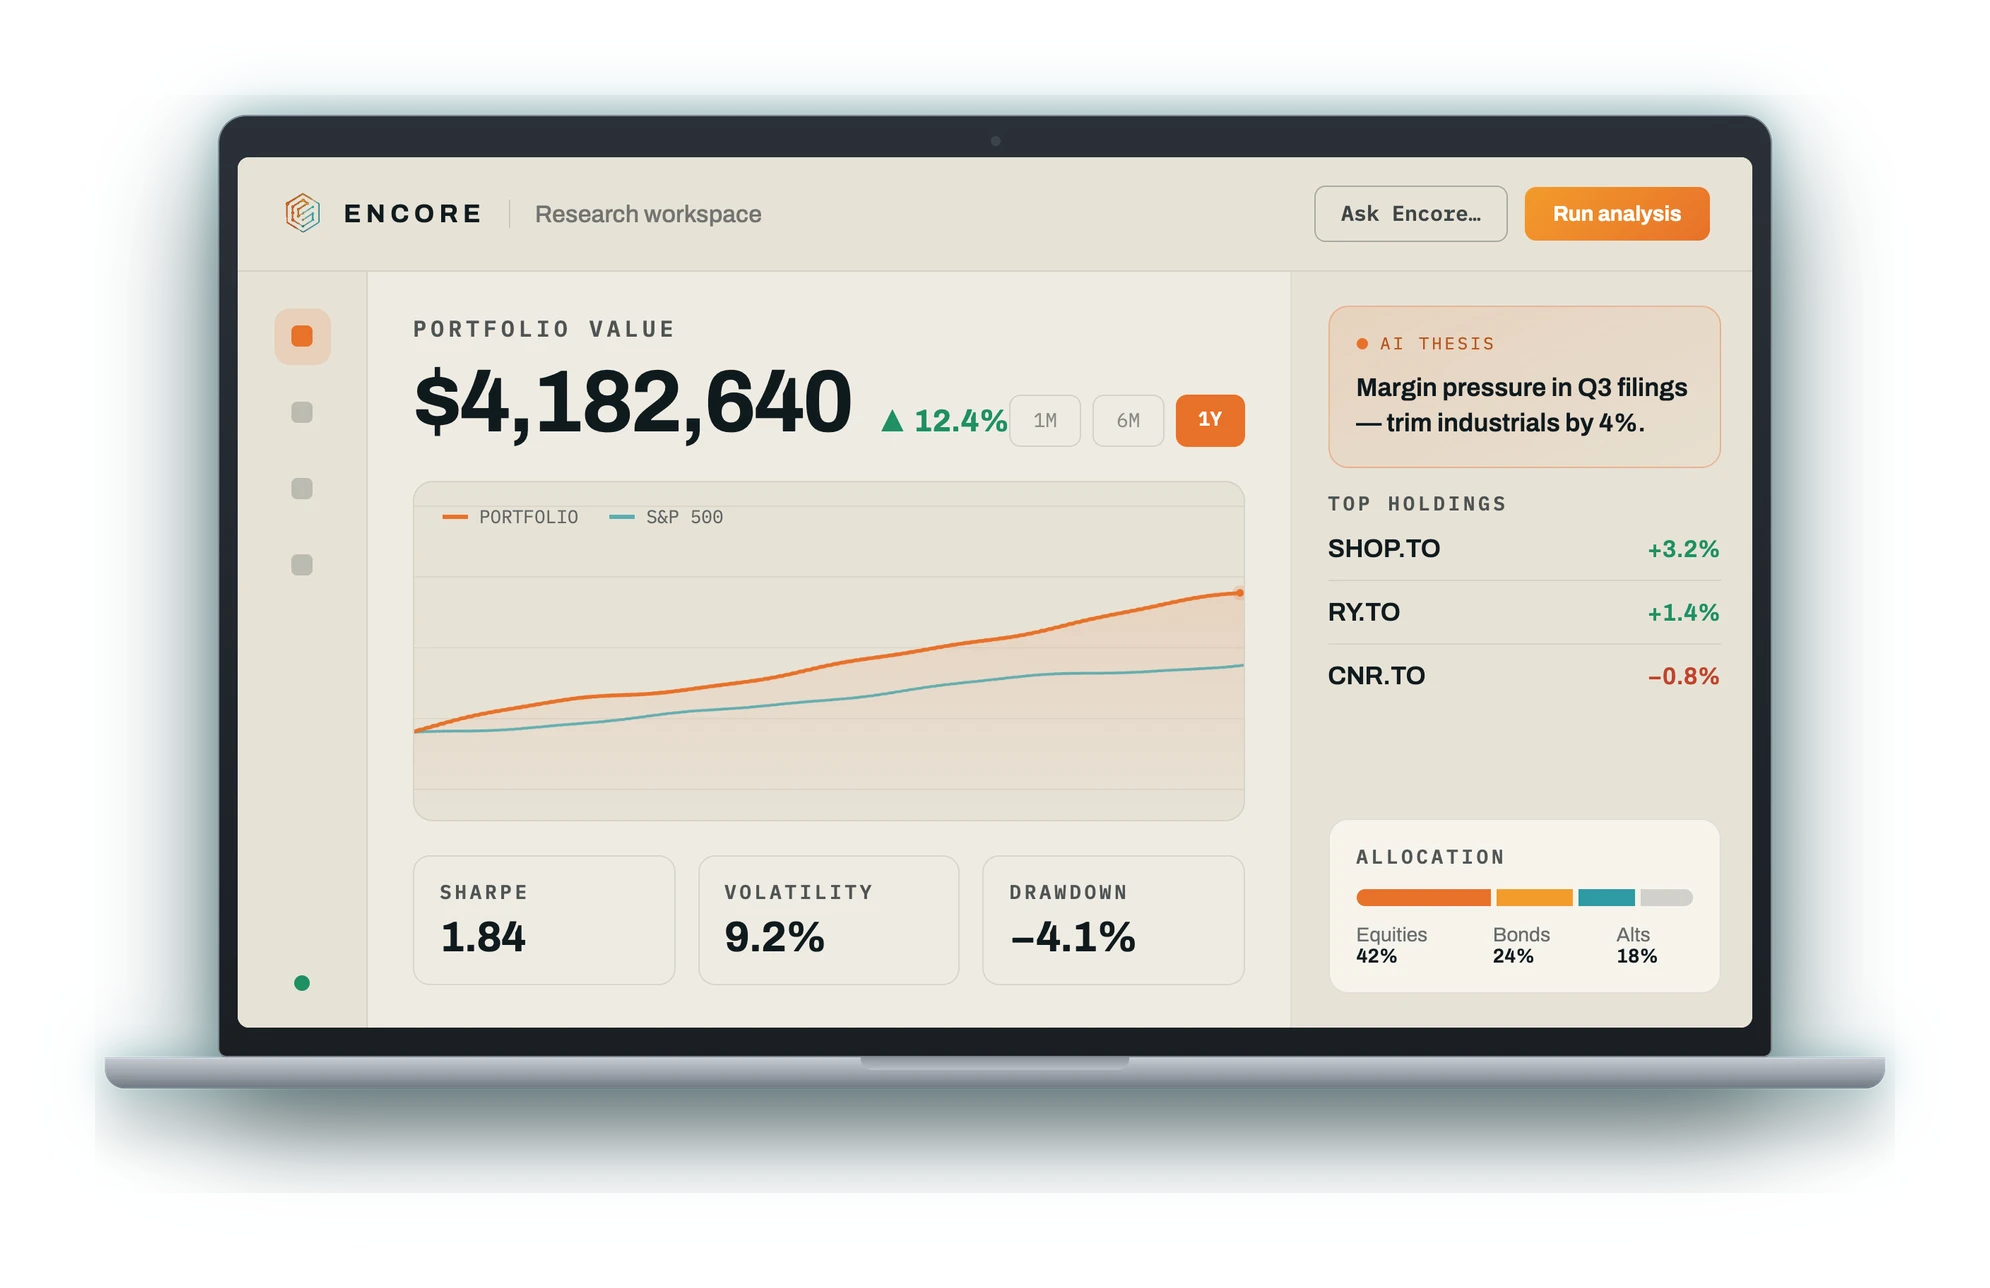
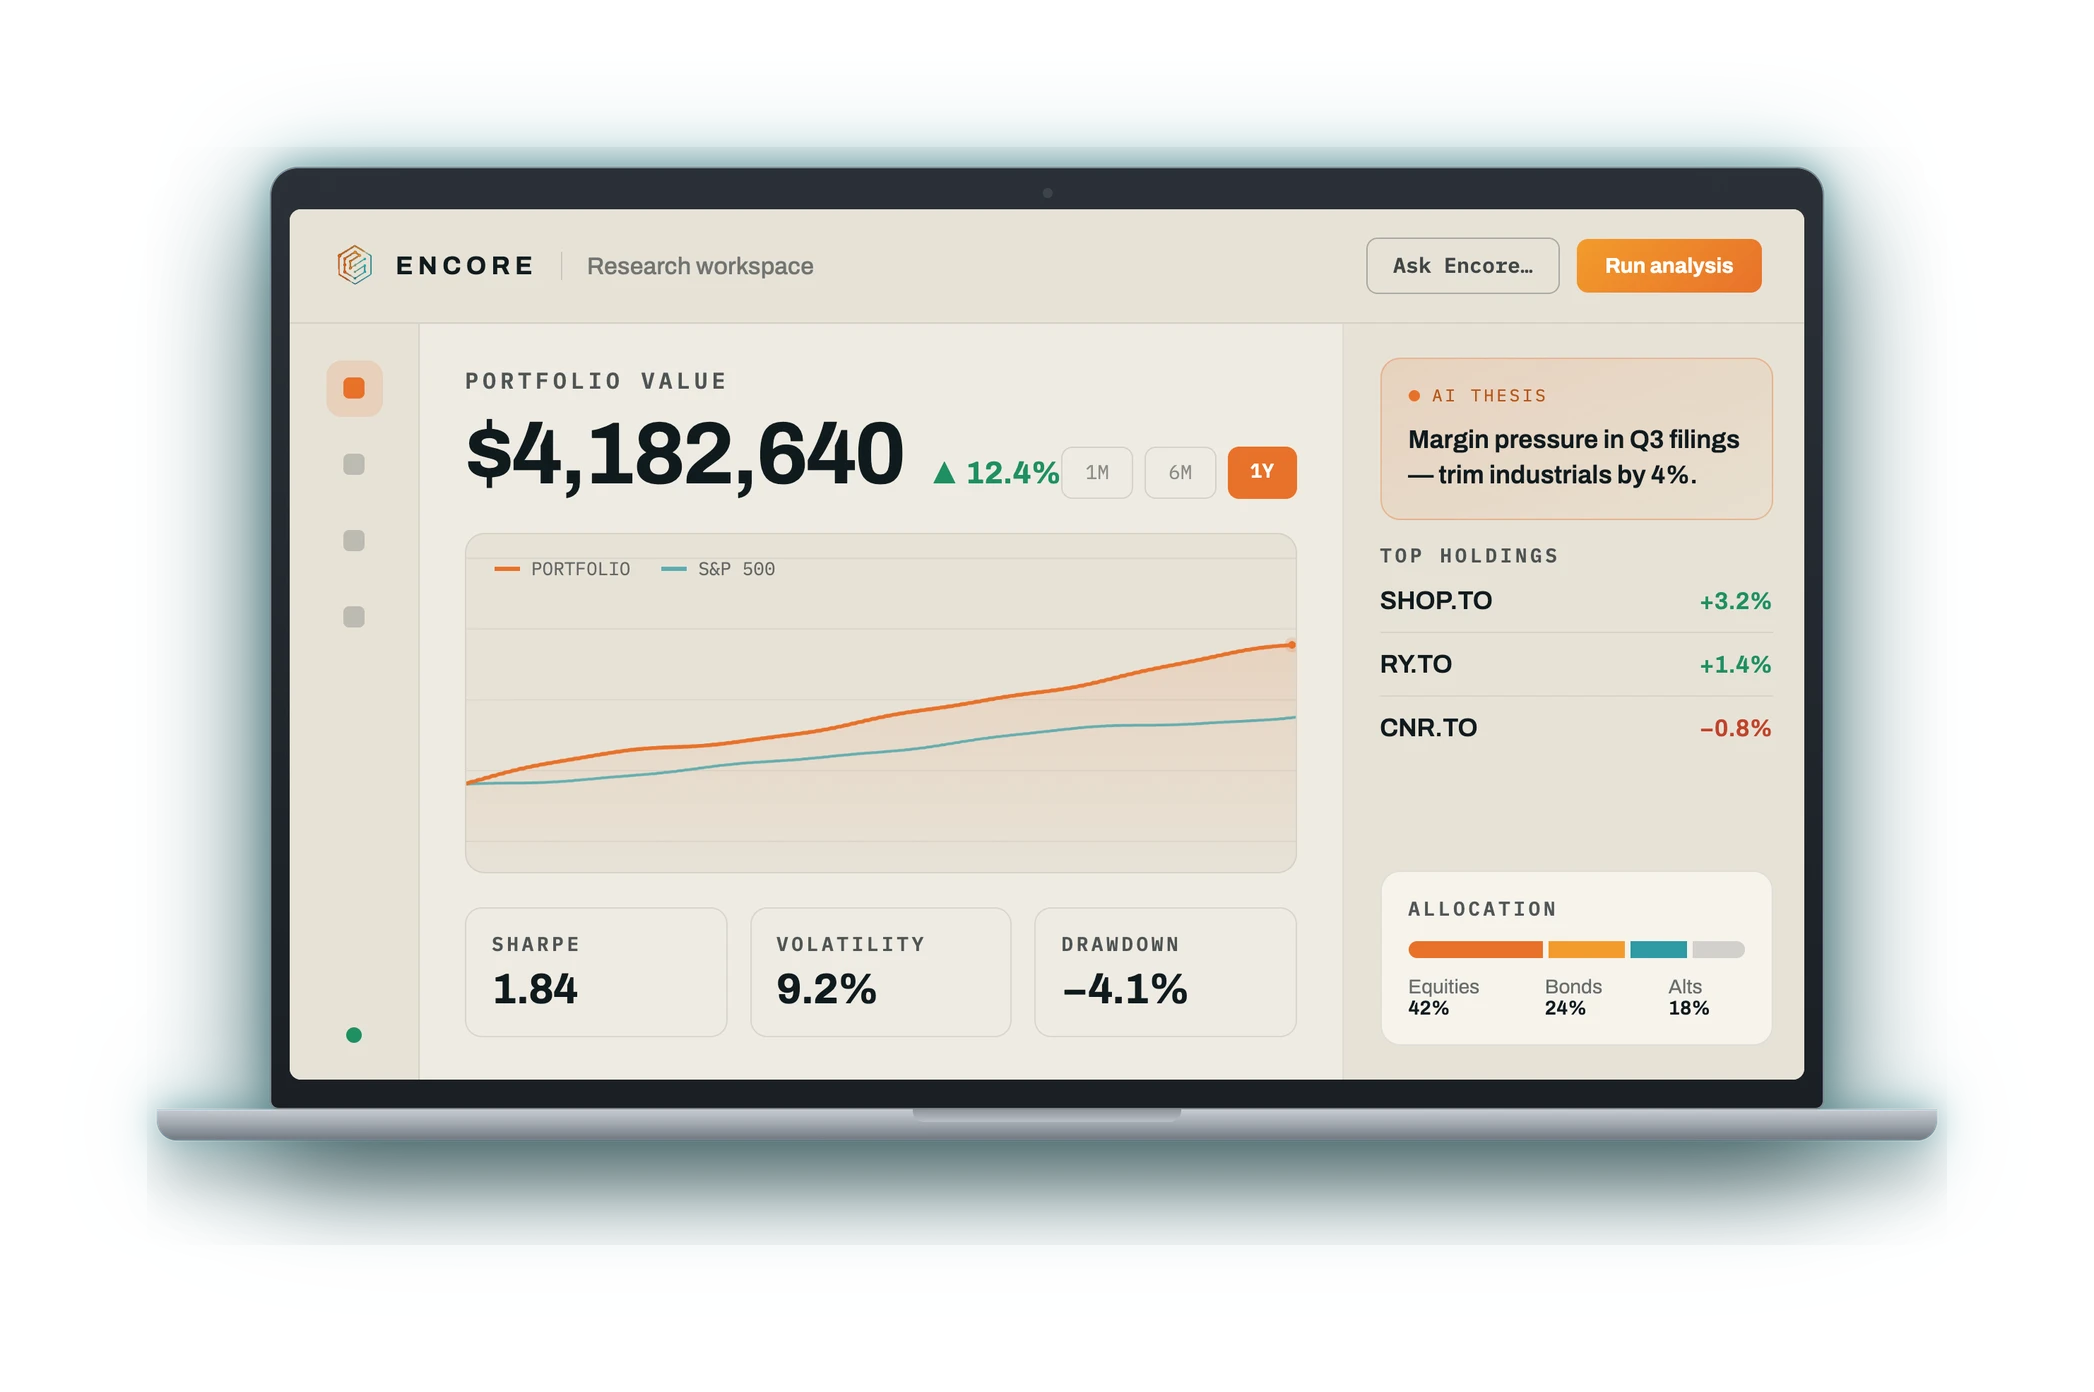
bring the Encore glow up to the standard profile
Encore was the only detail image on a two-layer glow (20/45 at .40/.25)
while the others use three layers at 18/36/70, so it was missing the wide
soft halo and read dimmer than the rest. Move it onto QQuote's levels.

The wider outer blur needs a bigger canvas margin (95 to 147px), so the
container width and both pull-ups are rescaled to the new canvas/object
ratio, which keeps the visible laptop at exactly the same size and
position it had before.

diff --git a/src/style.css b/src/style.css
@@ -886,7 +886,7 @@ body {
 
 /* Encore project (id 3): meta sits 68px under visible image bottom */
 .project-detail-content:has(.project-glow-3) .detail-meta {
-  margin-top: -3.83rem;
+  margin-top: -6.93rem;
 }
 
 /* Gradepad project (id 5): lower the meta section */
@@ -1346,17 +1346,24 @@ body {
   }
 }
 
-/* Encore desk renders slightly larger than the standard frame */
+/* Encore desk renders slightly larger than the standard frame. Width and
+   pull-up are sized to the webp's canvas/object ratio (2094/1800), so the
+   visible laptop lands in the same place as before the glow was widened. */
 .project-detail-image-container.encore-detail {
-  max-width: 940px;
-  width: min(73vw, 940px);
-  transform: translateY(-70px);
+  max-width: 989px;
+  width: min(76.8vw, 989px);
+  transform: translateY(-95px);
 }
 
 @media (max-width: 768px) {
   .project-detail-image-container.encore-detail {
     width: 100%;
     transform: translateY(-46px);
+  }
+
+  /* Same fixed-rem problem as Shopify: see the note on .project-glow-7 */
+  .project-detail-content:has(.project-glow-3) .detail-meta {
+    margin-top: -18%;
   }
 }
 
